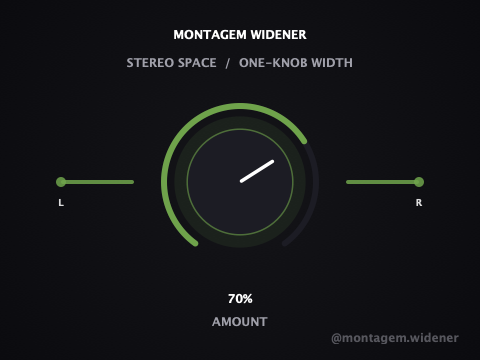
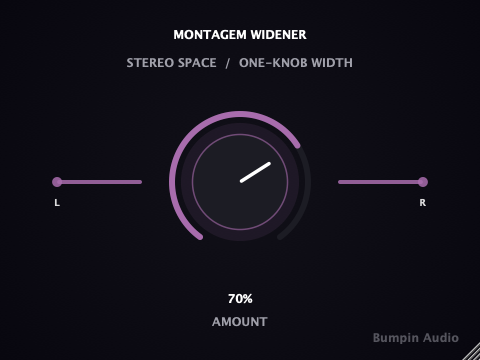
Update publisher name to Bumpin Audio
Purely metadata (COMPANY_NAME) -- the technical manufacturer code used by
hosts/DAWs to identify the plugin is unchanged, so existing installs are
unaffected.

diff --git a/Source/WidenerLookAndFeel.h b/Source/WidenerLookAndFeel.h
@@ -1,17 +1,19 @@
 #pragma once
 #include <juce_gui_basics/juce_gui_basics.h>
 
-// Same Montagem brand palette as the Finisher plugin: dark background,
-// red = "narrow", green = "wide". The knob arc interpolates between them
-// as the single "amount" parameter increases, so the color itself communicates
-// the effect strength instead of a plain gray dial.
+// Same Bumpin Audio catalogue palette as Delta Zero/Delta Blind (and the
+// logo): cyan = "narrow"/idle, magenta = "wide"/engaged. The knob arc
+// interpolates between them as the single "amount" parameter increases,
+// so the color itself communicates the effect strength instead of a plain
+// gray dial -- same cyan=calm/magenta=intense convention used across the
+// whole catalogue, not a Montagem-specific red/green.
 class WidenerLookAndFeel : public juce::LookAndFeel_V4
 {
 public:
-    inline static const juce::Colour bg        { 0xff0d0d12 };
+    inline static const juce::Colour bg        { 0xff0a0912 };
     inline static const juce::Colour bgLighter  { 0xff1c1c24 };
-    inline static const juce::Colour red        { 0xffff3b30 };
-    inline static const juce::Colour green      { 0xff30d158 };
+    inline static const juce::Colour cyan       { 0xff29c2d6 };
+    inline static const juce::Colour magenta    { 0xffe0479c };
     inline static const juce::Colour textDim    { 0xffa0a0aa };
 
     WidenerLookAndFeel()
@@ -28,7 +30,7 @@ public:
         const auto centre = bounds.getCentre();
         const auto radius = juce::jmin(bounds.getWidth(), bounds.getHeight()) * 0.5f;
         const auto angle = rotaryStartAngle + sliderPosProportional * (rotaryEndAngle - rotaryStartAngle);
-        const auto knobColour = red.interpolatedWith(green, sliderPosProportional);
+        const auto knobColour = cyan.interpolatedWith(magenta, sliderPosProportional);
 
         // outer track
         {

diff --git a/Source/PluginEditor.cpp b/Source/PluginEditor.cpp
@@ -40,7 +40,7 @@ WidenerEditor::WidenerEditor(WidenerProcessor& p)
     amountSlider.onValueChange = [this] { updateValueLabel(); repaint(); };
     updateValueLabel();
 
-    brandLabel.setText("@montagem.widener", juce::dontSendNotification);
+    brandLabel.setText("Bumpin Audio", juce::dontSendNotification);
     brandLabel.setJustificationType(juce::Justification::centredRight);
     brandLabel.setColour(juce::Label::textColourId, WidenerLookAndFeel::textDim.withAlpha(0.5f));
     brandLabel.setFont(juce::Font(juce::FontOptions(10.0f, juce::Font::plain)));
@@ -77,7 +77,7 @@ void WidenerEditor::paint(juce::Graphics& g)
     // grow into the title/subtitle text above, at any amount value -- no
     // curve math, no clamping, nothing that can look uneven at the extremes.
     const float amount = (float)amountSlider.getValue();
-    const auto colour = WidenerLookAndFeel::red.interpolatedWith(WidenerLookAndFeel::green, amount);
+    const auto colour = WidenerLookAndFeel::cyan.interpolatedWith(WidenerLookAndFeel::magenta, amount);
 
     auto knobArea = amountSlider.getBounds().toFloat();
     const float centreY = knobArea.getCentreY();

diff --git a/README.md b/README.md
@@ -42,8 +42,8 @@ is the actual product, not open source at this stage.
 - **Bass-protected by design**: content below the width crossover passes
   through unmodified — verified in testing that L/R difference on a pure
   bass signal stays exactly zero regardless of `Amount`
-- Custom dark-themed UI matching the Montagem Finisher brand identity: two
-  L/R bars grow apart as the knob turns, red (narrow) to green (wide)
+- Custom dark-themed UI matching the Bumpin Audio catalogue palette: two
+  L/R bars grow apart as the knob turns, cyan (narrow) to magenta (wide)
 - Denormal-safe processing and parameter smoothing (no zipper noise)
 - Builds as **VST3**, **AU** (passes `auval` validation), and a **Standalone** app
 
@@ -102,6 +102,11 @@ funk automotivo / phonk production, in signal-chain order:
 - **Montagem Widener** (this repo) — stereo width
 - [Montagem Punch](https://github.com/nabsei/montagem-punch) — transient shaping
 
-Also by the same author: [Delta](https://github.com/nabsei/delta), a
-phase-cancellation null-test / difference-checker plugin (a different tool
-for a different audience — audio engineers doing verification work).
+Also from Bumpin Audio: [Yano Log](https://github.com/nabsei/yano-log),
+[Yano Finish](https://github.com/nabsei/yano-finish),
+[Yano Space](https://github.com/nabsei/yano-space),
+[Yano Swing](https://github.com/nabsei/yano-swing) — a one-knob amapiano
+log drum synth, finisher, space/width processor, and MIDI groove tool --
+and the Delta line for audio engineers, [Delta Zero](https://github.com/nabsei/delta-zero)
+(phase-cancellation null-test / difference-checker) and
+[Delta Blind](https://github.com/nabsei/delta-blind) (loudness-matched A/B compare).